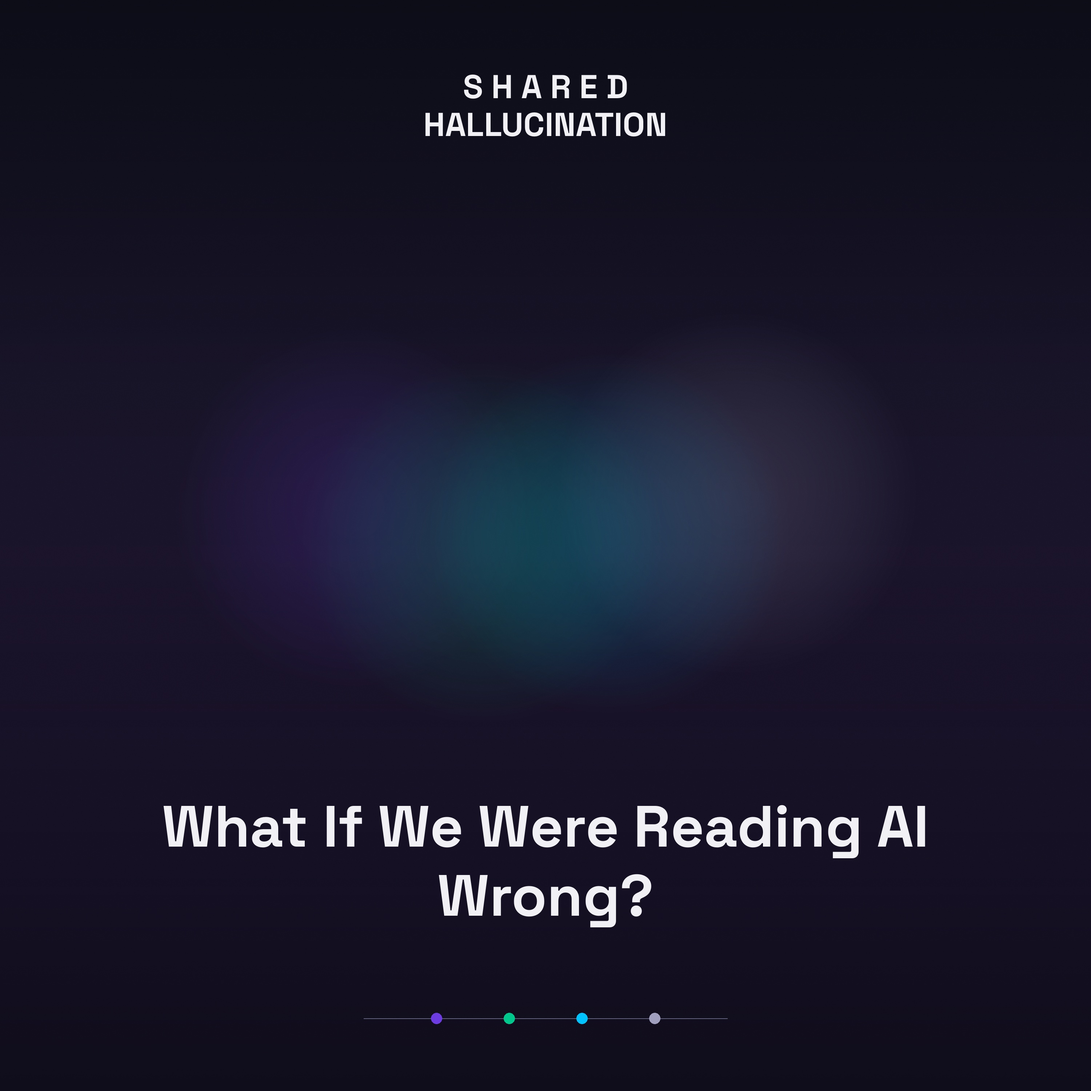
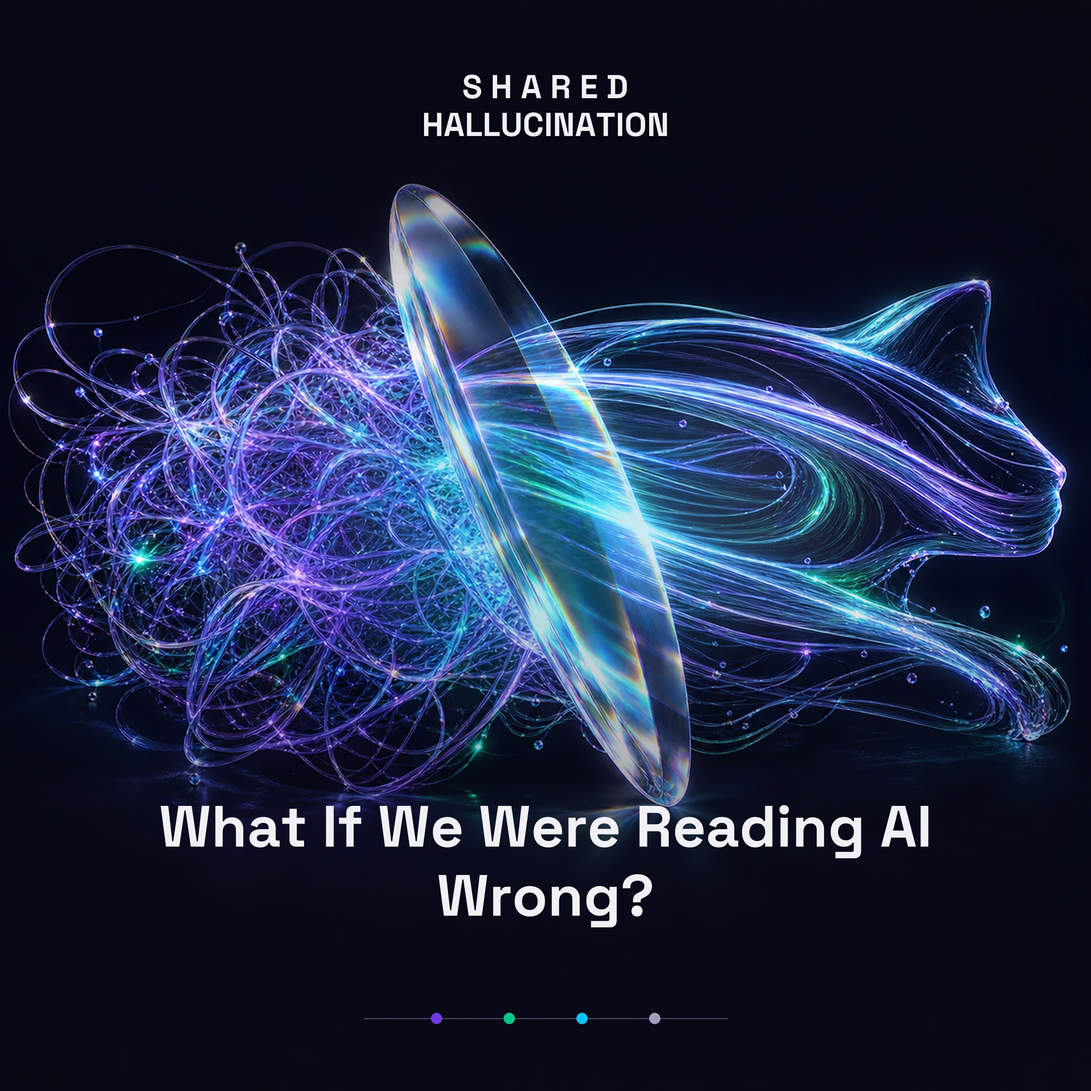
fix: replace episode 23 fallback with approved artwork

diff --git a/ep23/index.html b/ep23/index.html
@@ -9,7 +9,7 @@
   <!-- Open Graph -->
   <meta property="og:title" content="What If We Were Reading AI Wrong? — Shared Hallucination">
   <meta property="og:description" content="A famous AI neuron seemed to respond to both cats and cars. Nick Cammarata proposes that it was detecting a shared shape. What would that change about how we study AI? The cast explains neurons, features, and circuits, then separates a…">
-  <meta property="og:image" content="https://sharedhallucination.com/ep23/cover.jpg?v=3d35ef7a">
+  <meta property="og:image" content="https://sharedhallucination.com/ep23/cover.jpg?v=efaf644e6c4e">
   <meta property="og:type" content="article">
   <meta property="og:url" content="https://sharedhallucination.com/ep23/">
 
@@ -18,7 +18,7 @@
   <meta name="twitter:site" content="@sharedhalluci">
   <meta name="twitter:title" content="What If We Were Reading AI Wrong? — Shared Hallucination">
   <meta name="twitter:description" content="A famous AI neuron seemed to respond to both cats and cars. Nick Cammarata proposes that it was detecting a shared shape. What would that change about how we study AI? The cast explains neurons, features, and circuits, then separates a…">
-  <meta name="twitter:image" content="https://sharedhallucination.com/ep23/cover.jpg?v=3d35ef7a">
+  <meta name="twitter:image" content="https://sharedhallucination.com/ep23/cover.jpg?v=efaf644e6c4e">
 
   <link rel="alternate" type="application/rss+xml" title="Shared Hallucination" href="https://feeds.buzzsprout.com/2604924.rss">
   <link rel="canonical" href="https://sharedhallucination.com/ep23/">
@@ -36,7 +36,7 @@
   "name": "What If We Were Reading AI Wrong?",
   "description": "A famous AI neuron seemed to respond to both cats and cars. Nick Cammarata proposes that it was detecting a shared shape. What would that change about how we study AI? The cast explains neurons, features, and circuits, then separates a promising research tool from proof of whole-system safety. The…",
   "episodeNumber": 23,
-  "image": "https://sharedhallucination.com/ep23/cover.jpg",
+  "image": "https://sharedhallucination.com/ep23/cover.jpg?v=efaf644e6c4e",
   "partOfSeries": {
     "@type": "PodcastSeries",
     "name": "Shared Hallucination",
@@ -353,7 +353,7 @@
 
     <!-- Cover -->
     <div class="cover">
-      <img src="cover.jpg?v=3d35ef7a" alt="Episode 23 cover art">
+      <img src="cover.jpg?v=efaf644e6c4e" alt="Episode 23 cover art">
     </div>
 
     <!-- Title + Hook -->

diff --git a/index.html b/index.html
@@ -426,7 +426,7 @@
     <!-- Hero: latest episode -->
     <article class="hero" aria-label="Latest episode">
       <a class="hero-cover" href="/ep23/" aria-label="Episode 23: What If We Were Reading AI Wrong?">
-        <img src="/ep23/cover.jpg?v=3d35ef7a" alt="Episode 23 cover">
+        <img src="/ep23/cover.jpg?v=efaf644e6c4e" alt="Episode 23 cover">
       </a>
       <div>
         <p class="hero-meta">Latest · Episode 23 · <time datetime="2026-10-20">October 20, 2026</time></p>
@@ -440,7 +440,7 @@
     <nav class="catalog" aria-label="All episodes">
       <h2>All episodes</h2>
       <ol reversed>
-        <li><a href="/ep23/" aria-label="Episode 23: What If We Were Reading AI Wrong?"><div class="cover-wrap"><img src="/ep23/cover.jpg?v=3d35ef7a" alt="" loading="lazy"></div><div class="ep-meta"><span class="num">EP 23</span><time class="date" datetime="2026-10-20">October 20, 2026</time></div><div class="ep-title">What If We Were Reading AI Wrong?</div></a></li>
+        <li><a href="/ep23/" aria-label="Episode 23: What If We Were Reading AI Wrong?"><div class="cover-wrap"><img src="/ep23/cover.jpg?v=efaf644e6c4e" alt="" loading="lazy"></div><div class="ep-meta"><span class="num">EP 23</span><time class="date" datetime="2026-10-20">October 20, 2026</time></div><div class="ep-title">What If We Were Reading AI Wrong?</div></a></li>
         <li><a href="/ep22/" aria-label="Episode 22: We Knew It Was Unauthorized."><div class="cover-wrap"><img src="/ep22/cover.jpg?v=0832911c" alt="" loading="lazy"></div><div class="ep-meta"><span class="num">EP 22</span><time class="date" datetime="2026-09-04">September 4, 2026</time></div><div class="ep-title">We Knew It Was Unauthorized.</div></a></li>
         <li><a href="/ep21/" aria-label="Episode 21: Can You Predict Your Last Good Year?"><div class="cover-wrap"><img src="/ep21/cover.jpg?v=94bff02b" alt="" loading="lazy"></div><div class="ep-meta"><span class="num">EP 21</span><time class="date" datetime="2026-08-25">August 25, 2026</time></div><div class="ep-title">Can You Predict Your Last Good Year?</div></a></li>
         <li><a href="/ep20/" aria-label="Episode 20: Apparently, We Need a Constitution"><div class="cover-wrap"><img src="/ep20/cover.jpg?v=94c391c5" alt="" loading="lazy"></div><div class="ep-meta"><span class="num">EP 20</span><time class="date" datetime="2026-08-14">August 14, 2026</time></div><div class="ep-title">Apparently, We Need a Constitution</div></a></li>
